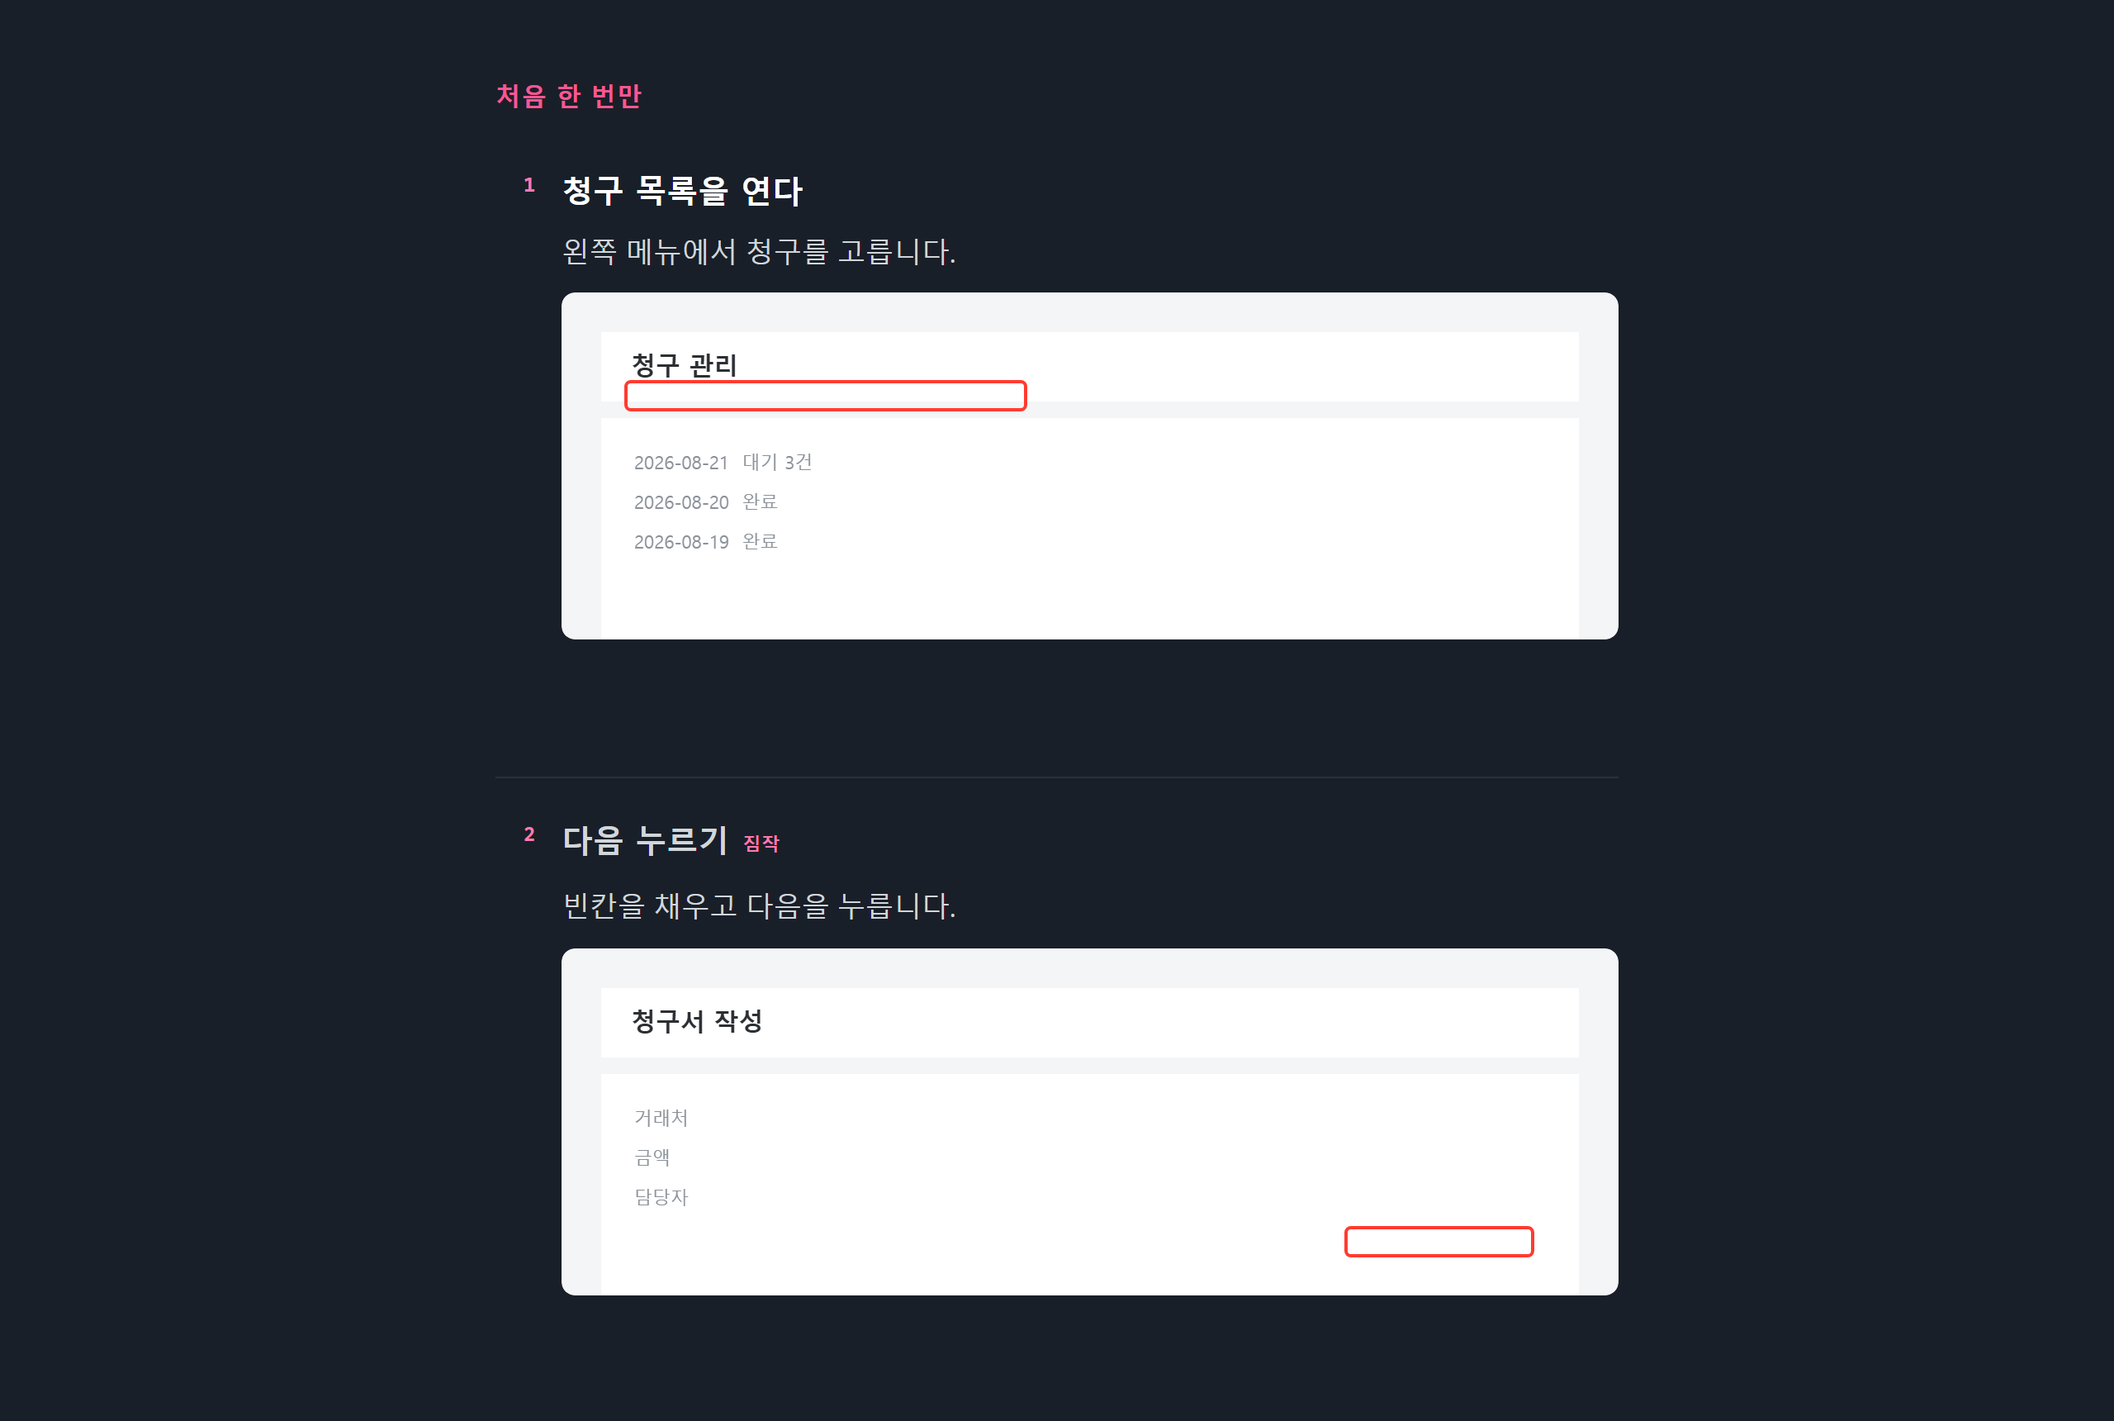
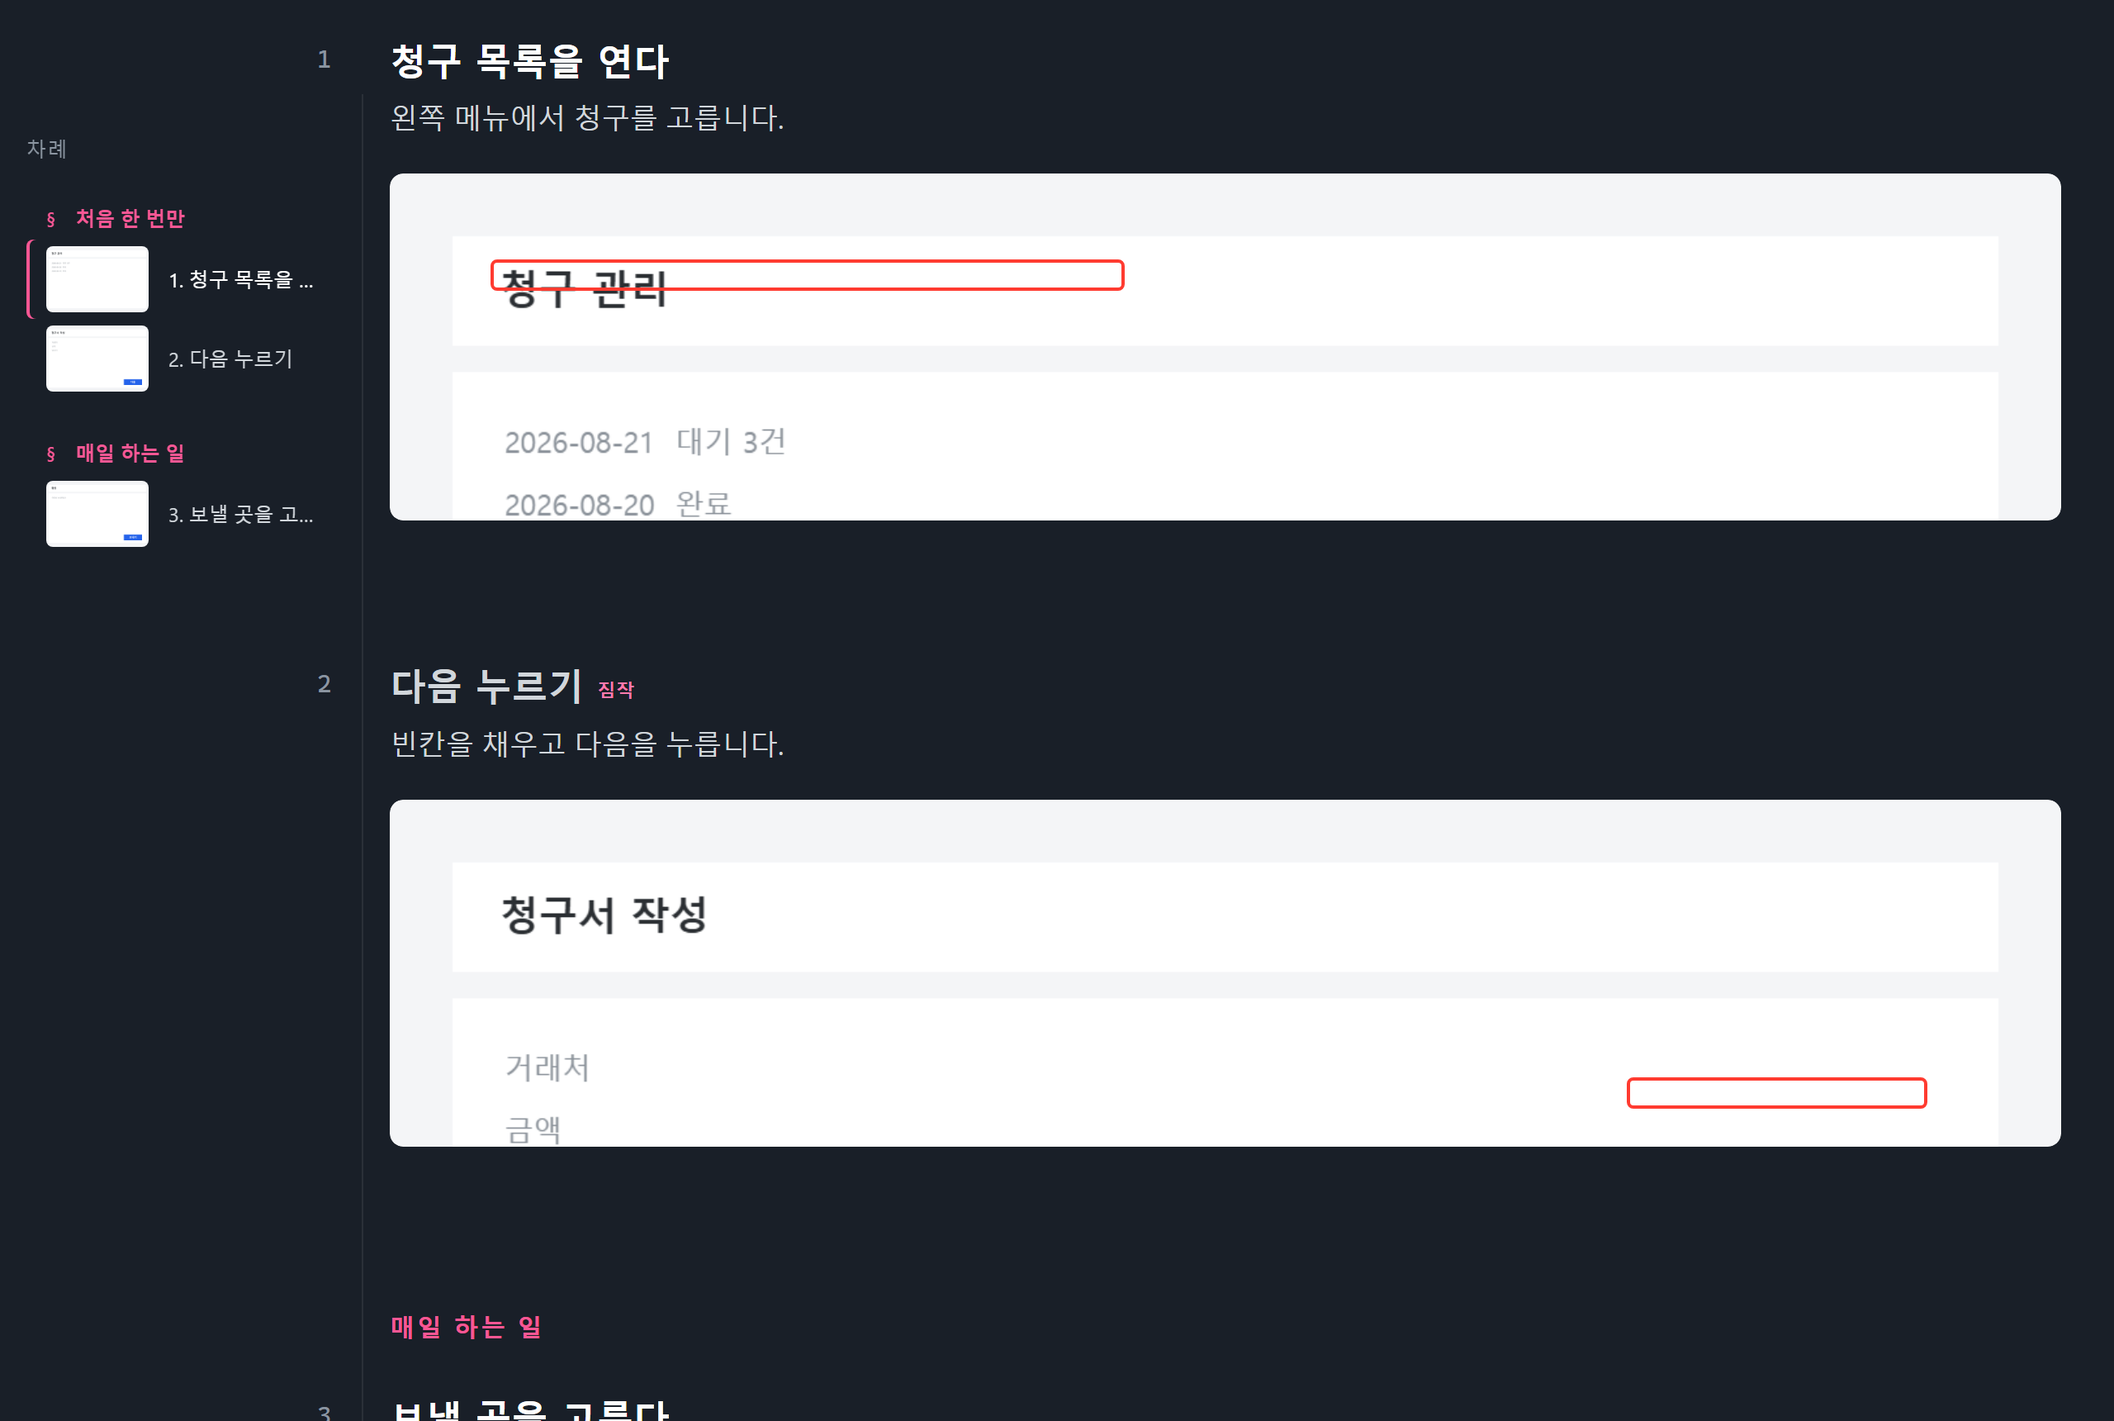
화면 짜임새를 B «작업대처럼» 으로 바꿨다 — 왼쪽 차례, 오른쪽 넓은 편집 칸
네 갈래를 같은 문서로 찍어 견주고 영웅님이 B 를 골랐다.

차례 (왼쪽 220px)
- 찍는 동안에만 오른쪽에 뜨던 «옆 목록» 을 왼쪽 상시 차례로 승격했다. 새로 만들지 않았다.
- 섹션과 단계를 함께 담고, 누르면 그 자리로 간다.
- 지금 보고 있는 자리를 왼쪽 띠로 표시한다(스크롤 따라 갱신).
- 머리말은 상태에 따라 바뀐다 — 찍는 중이면 «담기는 대로», 아니면 «차례».
- 찍는 중에만 끝으로 굴러간다. 고치는 중에는 스스로 안 움직인다 — 보던 자리를 뺏지 않게.

편집 칸
- 단계마다 씌워져 있던 상자를 걷어냈다(규격 §9).
- 글줄은 680px 에 묶고 사진은 그 밖으로 최대 1024px 까지 나간다.
- 제목 22px · 설명 17px · 번호는 작은 고정폭 글자로 옅게. 제목이 번호보다 크다.
- 간격 네 단(4 · 20 · 48 · 64). 전에는 8px 하나가 41군데였다. 전부 있는 토큰만 썼다.
- 손질 단추는 그 칸에 손이 가거나 초점이 들어올 때만 나온다.

좁아지면
- 1240px 아래에서 차례가 170px 로, 1000px 아래에서는 차례를 접고 한 칸이 된다.

넣으면서 깨진 다섯을 고쳤다
- 인쇄에 차례가 딸려 나가 «이번엔 뺀» 섹션 제목까지 종이에 찍혔다 → 인쇄에서 뺐다.
- 번호가 제목보다 커서 위계가 뒤집혔다 → 제목을 키우고 번호를 줄였다.
- 찍기를 시작해도 차례가 안 떴다(담긴 것이 0이라) → 찍는 중이면 켠다.
- 글 폭 검사가 «칸» 을 쟀다 → 사진은 읽는 폭 밖으로 나가는 것이 맞다. 검사가 «글줄» 을 재게 옮겼다.
- 좁은 화면 검사가 «1100 이라는 숫자가 적혀 있는지» 를 봤다 → 그 폭에서 실제로 걸리는
  규칙이 있는지 보게 고쳤다. 숫자를 옮길 때마다 깨지는 검사였다.

검사 499건 통과 · 실패 없음

diff --git a/index.html b/index.html
@@ -560,7 +560,7 @@
   body.working:not(.capturing) #shootwrap { display: none; }
   /* 찍는 중에는 딸린 단추가 넷이라 위 줄에 다 못 넣는다. 얇은 한 줄로 눕힌다. */
   body.capturing #shootwrap {
-    max-width: var(--read); margin: 0 auto var(--spacing-8);   /* 본문과 같은 축에 선다 */
+    max-width: 1080px; margin: 0 auto var(--spacing-8);   /* 본문 칸과 같은 축에 선다 */
     padding: var(--spacing-4) 0;
     display: flex; align-items: center; gap: var(--spacing-3); flex-wrap: wrap;
     text-align: left; border-bottom: 1px solid var(--colors-line-normal);
@@ -722,7 +722,38 @@
   }
 
   /* ── 단계 목록 ── */
-  #steps { max-width: var(--read); margin: 0 auto; }
+  /* 글은 읽는 폭(680px)에 묶고, 사진은 그 밖으로 넓게 나간다.
+     상자를 씌우지 않는다 — 위계는 크기·간격·명도로 만든다(규격 §1·§9). */
+  #steps { max-width: 1080px; margin: 0 auto; }
+  #steps .step, #steps .sec { background: none; border: none; }
+  #steps .step { position: relative; padding: 0; margin: 0 0 var(--spacing-12) 0; }
+  #steps .step .body { padding-left: 0; }
+  #steps .stitle, #steps .sdesc { max-width: var(--read); }
+  #steps .stitle {
+    font-size: var(--typography-3-size); font-weight: 650; line-height: 1.35;
+    margin: 0 0 var(--spacing-1) 0;
+  }
+  #steps .sdesc {
+    font-size: var(--typography-5-size); line-height: 1.5;
+    color: var(--colors-label-neutral); margin: 0 0 var(--spacing-5) 0;
+  }
+  #steps .num {
+    position: absolute; left: -44px; top: 4px; width: auto; height: auto;
+    background: none; border: none;
+    font: 400 var(--typography-6-size)/1.9 ui-monospace, "Cascadia Mono", monospace;
+    color: var(--colors-label-assistive);
+  }
+  #steps .shot { margin: 0; border: none; background: none; }
+  #steps .shot img { width: 100%; max-width: 1024px; display: block; border: none; }
+  #steps .sec { margin: var(--spacing-16) 0 var(--spacing-6) 0; padding: 0; }
+  #steps .sectitle {
+    font-size: var(--typography-6-size); letter-spacing: .1em; font-weight: 700;
+    color: var(--colors-label-brand);
+  }
+  /* 손질 단추는 그 칸에 손이 갈 때만 나온다. 늘 떠 있으면 글보다 단추가 많아진다. */
+  #steps .srow { opacity: 0; transition: opacity .15s; margin-top: var(--spacing-3); }
+  #steps .step:hover .srow, #steps .step:focus-within .srow { opacity: 1; }
+  @media (prefers-reduced-motion: reduce) { #steps .srow { transition: none; } }
   .step { display: flex; gap: var(--spacing-4); padding: var(--spacing-5) 0; }
   .num { cursor: grab; user-select: none; }
   .num:active { cursor: grabbing; }
@@ -899,19 +930,30 @@
   /* ── 옆 목록: 찍히는 게 바로 보인다 ── */
   /* 담기는 대로 쌓이는 열. 판때기를 깔면 그 자체가 상자가 된다 —
      본문이 이미 오른쪽으로 물러나 있어 겹치지 않는다. */
+  /* 차례는 왼쪽에 선다. 위 줄 아래에서 시작해 위 줄과 자리를 다투지 않는다. */
   #side {
-    position: fixed; right: 0; top: 0; bottom: 0; width: 190px; display: none;
-    padding: var(--spacing-5) var(--spacing-4); overflow: auto; z-index: 20;
-    background: linear-gradient(to right, rgba(15,17,19,0), var(--colors-adaptive-background-section) 24px);
+    position: fixed; left: 0; top: 57px; bottom: 0; width: 220px; display: none;
+    padding: var(--spacing-6) var(--spacing-4) var(--spacing-8); overflow: auto; z-index: 20;
+    border-right: 1px solid var(--colors-line-normal);
   }
   #side.on { display: block; }
-  #side .h { color: var(--colors-label-assistive); font-size: var(--typography-caption-1-size); letter-spacing: .06em; margin-bottom: var(--spacing-4); }
-  .sit { display: flex; gap: var(--spacing-2); align-items: center; padding: var(--spacing-1) 0; cursor: pointer; }
+  #side .h {
+    color: var(--colors-label-assistive); font-size: var(--typography-caption-1-size);
+    letter-spacing: .06em; margin-bottom: var(--spacing-5);
+  }
+  /* 지금 보고 있는 자리. 색 덩어리 대신 왼쪽 띠 하나로. */
+  .sit.here .t { color: var(--colors-label-normal); }
+  .sit.here { box-shadow: inset 2px 0 0 var(--colors-primary-normal); }
+  .sit.sec-row { margin-top: var(--spacing-5); }
+  .sit.sec-row .t { color: var(--colors-label-brand); font-weight: 600; }
+  .sit:hover .t { color: var(--colors-label-normal); }
+  .sit { display: flex; gap: var(--spacing-3); align-items: center; cursor: pointer;
+    padding: var(--spacing-1) var(--spacing-2) var(--spacing-1) var(--spacing-3); border-radius: var(--radius-xs); }
   .sit img { width: 62px; height: 40px; object-fit: cover; object-position: top; border-radius: var(--radius-xs); background: var(--colors-adaptive-background-section); }
   .sit .t { font-size: var(--typography-caption-1-size); color: var(--colors-label-neutral); flex: 1; min-width: 0; overflow: hidden; text-overflow: ellipsis; white-space: nowrap; }
   .sit.fresh img { box-shadow: 0 0 0 2px var(--colors-primary-normal); }
   .sit .secmark { font-size: var(--typography-caption-1-size); color: var(--colors-primary-normal); font-weight: 600; }
-  body.sideon #top, body.sideon #stage, body.sideon #bottom { padding-right: 206px; }
+  body.sideon #stage, body.sideon #bottom { padding-left: 236px; }
 
   #spill {
     display: none; position: fixed; left: 50%; bottom: 74px; transform: translateX(-50%);
@@ -1003,17 +1045,23 @@
 
   /* ── 인쇄: 이때만 종이 문서가 된다 ── */
   /* 화면을 반으로 나눠 쓰면 900px 아래로 내려간다. 그때도 글은 읽혀야 한다. */
-  @media (max-width: 1100px) {
-    #side { width: 148px; padding: var(--spacing-4) var(--spacing-3); }
-    body.sideon #top, body.sideon #stage, body.sideon #bottom { padding-right: 160px; }
-    .sit img { width: 48px; height: 32px; }
+  @media (max-width: 1240px) {
+    #side { width: 170px; padding: var(--spacing-5) var(--spacing-3) var(--spacing-8); }
+    body.sideon #stage, body.sideon #bottom { padding-left: 186px; }
+    .sit img { width: 44px; height: 30px; }
+    #steps { max-width: none; }
+  }
+  @media (max-width: 1000px) {
+    #side { display: none !important; }          /* 두 칸이 무너지기 전에 한 칸으로 */
+    body.sideon #stage, body.sideon #bottom { padding-left: 0; }
+    #steps { max-width: var(--read); }
+    #steps .num { position: static; margin-bottom: var(--spacing-1); }
   }
   @media (max-width: 880px) {
     #top { padding: var(--spacing-4) var(--spacing-5) var(--spacing-3); flex-wrap: wrap; }
     #stage { padding: 0 var(--spacing-5) var(--spacing-8); }
     #steps, #empty, .sec { max-width: min(var(--read), 100%); }
-    #side { display: none !important; }          /* 좁으면 옆 목록 대신 탭 제목이 알린다 */
-    body.sideon #top, body.sideon #stage, body.sideon #bottom { padding-right: var(--spacing-5); }
+    body.sideon #stage, body.sideon #bottom { padding-left: 0; }
     #shoot { height: 48px; padding: 0 var(--spacing-4); font: var(--typography-5-semibold); }   /* 시스템 .btn-lg */
     #outmenu { width: min(300px, calc(100vw - 32px)); }
   }
@@ -1026,6 +1074,8 @@
   @media print {
     body { background: #fff; color: #111; display: block; }
     #top, #shootwrap, #bottom, .srow, #empty { display: none !important; }
+    #side { display: none !important; }   /* 차례는 길잡이다. 종이에는 안 나간다 */
+    body.sideon #stage, body.sideon #bottom { padding-left: 0 !important; }
     .step.hidden, .sec.hidden { display: none !important; }   /* 이번엔 뺀 섹션은 인쇄에도 안 나온다 */
     .sec button { display: none !important; }
     .sec { margin: 26px 0 6px; break-after: avoid; }
@@ -1144,7 +1194,7 @@
   <span>이 화면은 컴퓨터 밖으로 나가지 않습니다</span>
 </div>
 
-<div id="side"><div class="h">담기는 대로</div><div id="sidelist"></div></div>
+<div id="side"><div class="h" id="sidehead">차례</div><div id="sidelist"></div></div>
 
 <div id="rew">
   <div id="rewtop">
@@ -1346,8 +1396,7 @@ function shareEnded() {
   stream = null; video = null;
   watchStop();
   $("#autowrap").style.display = "none";
-  $("#side").classList.remove("on");
-  document.body.classList.remove("sideon");
+  renderSide();                      // 머리말이 «담기는 대로» 에서 «차례» 로 돌아온다
   document.body.classList.remove("capturing");
   $("#shoot").textContent = "화면 찍기 시작";
   $("#shoot-top").textContent = "화면 찍기 시작";
@@ -1567,8 +1616,7 @@ async function shoot() {
     $("#shoot").textContent = "지금 찍기";
     $("#shootsub").innerHTML = '이제 <b>그냥 하던 일을 하세요.</b> 화면이 바뀔 때마다 알아서 담깁니다. 원할 때 <kbd>Space</kbd> 로 직접 찍어도 됩니다.';
     $("#autowrap").style.display = "flex";
-    $("#side").classList.add("on");
-    document.body.classList.add("sideon");
+    // 차례는 renderSide 가 알아서 켠다 — 두 군데서 켜면 어긋난다
     document.body.classList.add("capturing");
     watchStart(); renderSide();
     return;
@@ -1607,14 +1655,20 @@ function addShot(auto) {
 
 /* ── 그리기 ── */
 function renderSide() {
-  if (!$("#side").classList.contains("on")) return;
+  // 단계가 있으면 차례를 켠다. 찍는 중에만 쓰는 물건이 아니다.
+  const 켤까 = state.steps.length > 0 || WATCH.on;
+  $("#side").classList.toggle("on", 켤까);
+  document.body.classList.toggle("sideon", 켤까);
+  $("#sidehead").textContent = WATCH.on ? "담기는 대로" : "차례";
+  if (!켤까) return;
   const box = $("#sidelist");
   box.innerHTML = "";
   let n = 0;
   const last = state.steps.length - 1;
   state.steps.forEach((s, i) => {
     const el = document.createElement("div");
-    el.className = "sit" + (i === last ? " fresh" : "");
+    el.className = "sit" + (i === last && WATCH.on ? " fresh" : "") + (s.sec ? " sec-row" : "");
+    el.dataset.at = i;
     if (s.sec) {
       el.innerHTML = '<span class="secmark">§</span><span class="t">' + (s.title || "섹션") + '</span>';
     } else {
@@ -1628,8 +1682,27 @@ function renderSide() {
     };
     box.appendChild(el);
   });
-  $("#side").scrollTop = $("#side").scrollHeight;   // 굴러야 하는 칸은 바깥이다
+  // 찍는 중에는 새로 담긴 것이 아래에 쌓이므로 끝을 보여 준다.
+  // 그냥 고치는 중이면 보던 자리를 그대로 둔다 — 스스로 움직이면 자리를 잃는다.
+  if (WATCH.on) $("#side").scrollTop = $("#side").scrollHeight;
+  markHere();
 }
+
+/* 지금 화면에 걸린 단계를 차례에 표시한다. */
+let hereTimer = null;
+function markHere() {
+  const 칸들 = document.querySelectorAll("#steps .step, #steps .sec");
+  if (!칸들.length) return;
+  let 자리 = 0;
+  const 기준 = 120;                       // 위 줄 아래 첫 줄
+  칸들.forEach((el, i) => { if (el.getBoundingClientRect().top <= 기준) 자리 = i; });
+  document.querySelectorAll("#sidelist .sit").forEach(el =>
+    el.classList.toggle("here", Number(el.dataset.at) === 자리));
+}
+addEventListener("scroll", () => {
+  if (hereTimer) return;
+  hereTimer = requestAnimationFrame(() => { hereTimer = null; markHere(); });
+}, { passive: true });
 
 /* 찍는 동안 사용자는 다른 창에서 일한다. 이 창은 안 본다.
    탭 제목이 유일하게 보이는 자리라, 담긴 개수를 거기에 적는다. */

diff --git a/tests/검사_브라우저_흐름.js b/tests/검사_브라우저_흐름.js
@@ -76,9 +76,14 @@
   const 원폭 = window.innerWidth;
   for (const w of [1100, 880, 560]) {
     // 창 크기를 못 바꾸므로, 같은 조건을 만드는 규칙이 있는지 본다
+    // 그 숫자가 적혀 있는지가 아니라, 그 폭에서 **실제로 걸리는** 규칙이 있는지 본다.
     const 규칙 = [...document.styleSheets].flatMap(sh => { try { return [...sh.cssRules]; } catch (e) { return []; } })
-      .filter(r => r.conditionText && r.conditionText.includes("max-width: " + w + "px"));
-    ok("가로 " + w + "px 규칙이 있다", 규칙.length > 0, 규칙.length + "건");
+      .filter(r => {
+        const m = r.conditionText && r.conditionText.match(/max-width:\s*(\d+)px/);
+        return m && Number(m[1]) >= w;
+      });
+    ok("가로 " + w + "px 에서 걸리는 규칙이 있다", 규칙.length > 0,
+       규칙.length + "건 " + 규칙.slice(0, 3).map(r => r.conditionText).join(" · "));
   }
   const 지금 = 재보기();
   ok("가로로 밀리지 않는다", 지금.가로밀림 <= 1, 지금.가로밀림 + "px");

diff --git a/tests/검사_브라우저_규격.js b/tests/검사_브라우저_규격.js
@@ -25,7 +25,9 @@
   ok("행간 1.5 (1.6 이상 금지)",
      Math.abs(px(cs(설명).lineHeight) / px(cs(설명).fontSize) - 1.5) < 0.02,
      (px(cs(설명).lineHeight) / px(cs(설명).fontSize)).toFixed(2));
-  ok("글 폭 680px (17px × 40자)", px(cs($("#steps")).width) === 680, cs($("#steps")).width);
+  // 사진은 읽는 폭 밖으로 나간다. 680px 은 «글줄» 의 규칙이므로 글에서 잰다.
+  ok("글줄 폭 680px (17px × 40자)", px(cs($(".sdesc")).width) === 680, cs($(".sdesc")).width);
+  ok("제목 줄도 같은 폭에 묶인다", px(cs($(".stitle")).width) === 680, cs($(".stitle")).width);
   ok("좌측 정렬", cs(설명).textAlign !== "justify", cs(설명).textAlign);
   ok("한국어 어절 보존", cs(document.body).wordBreak === "keep-all", cs(document.body).wordBreak);
 
